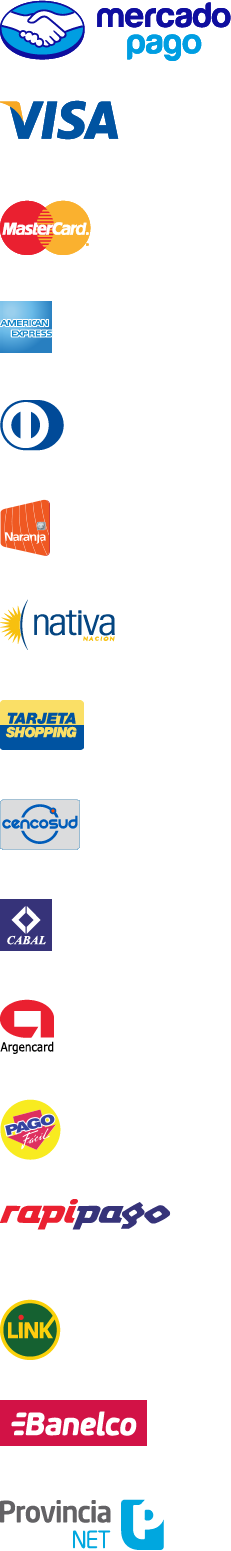
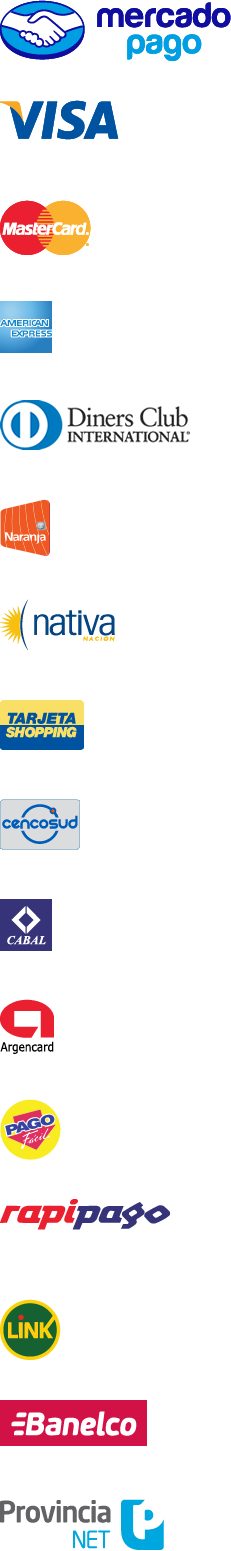
nuevo medio de pago en mx

Changed region(s): [[0.1212, 0.2476, 0.8182, 0.3095], [0.0, 0.2476, 0.0909, 0.3095]]

diff --git a/css/countries/ar/large/payment-methods.css b/css/countries/ar/large/payment-methods.css
@@ -3,7 +3,7 @@
 
 
 .paymentmethod-large {
-    background-image: url('http://static.mlstatic.com/org-img/ui/payment-methods/1.1.0/ar/payment-methods-large.png');
+    background-image: url('http://static.mlstatic.com/org-img/ui/payment-methods/1.2.0/ar/payment-methods-large.png');
     /* background-image: url('https://a248.e.akamai.net/secure.mlstatic.com/org-img/ui/payment-methods/1.1.0/ar/payment-methods-large.png'); */
     height: 26px; /* most common height */
     margin: 5px;
@@ -14,15 +14,15 @@
  */
 
 @media
-only screen and (-webkit-min-device-pixel-ratio: 2)      and (max-width: 568px),
-only screen and (   min--moz-device-pixel-ratio: 2)      and (max-width: 568px),
-only screen and (     -o-min-device-pixel-ratio: 2/1)    and (max-width: 568px),
-only screen and (        min-device-pixel-ratio: 2)      and (max-width: 568px),
-only screen and (                min-resolution: 192dpi) and (max-width: 568px),
-only screen and (                min-resolution: 2dppx)  and (max-width: 568px) {
+only screen and (-webkit-min-device-pixel-ratio: 2),
+only screen and (   min--moz-device-pixel-ratio: 2),
+only screen and (     -o-min-device-pixel-ratio: 2/1),
+only screen and (              min-device-pixel-ratio: 2),
+only screen and (                min-resolution: 192dpi),
+only screen and (                min-resolution: 2dppx) {
    
 .paymentmethod-large {
-        background-image: url('http://static.mlstatic.com/org-img/ui/payment-methods/1.1.0/br/payment-methods-large.png') no-repeat;
+        background-image: url('http://static.mlstatic.com/org-img/ui/payment-methods/1.2.0/ar/payment-methods-large@2x.png') no-repeat;
         background-size: 116px 776px; /* original x1 image size */
     }
 
@@ -53,7 +53,7 @@ only screen and (                min-resolution: 2dppx)  and (max-width: 568px) 
 
 .paymentmethod-diners.paymentmethod-large {
     height: 25px;
-    width: 32px;
+    width: 96px;
 }
 
 .paymentmethod-naranja.paymentmethod-large {

diff --git a/css/countries/mx/large/payment-methods.css b/css/countries/mx/large/payment-methods.css
@@ -2,10 +2,29 @@
 ---------------------------------------------------------------*/
 
 .paymentmethod-large {
-    background-image: url('http://static.mlstatic.com/org-img/ui/payment-methods/1.1.0/mx/payment-methods-large.png');
+    background-image: url('http://static.mlstatic.com/org-img/ui/payment-methods/1.2.0/mx/payment-methods-large.png');
     /* background-image: url('https://a248.e.akamai.net/secure.mlstatic.com/org-img/ui/payment-methods/1.1.0/mx/payment-methods-large.png'); */
     margin: 5px;
 }
+/*
+ * Retina logo for small screens 
+ */
+
+@media
+only screen and (-webkit-min-device-pixel-ratio: 2),
+only screen and (   min--moz-device-pixel-ratio: 2),
+only screen and (     -o-min-device-pixel-ratio: 2/1),
+only screen and (              min-device-pixel-ratio: 2),
+only screen and (                min-resolution: 192dpi),
+only screen and (                min-resolution: 2dppx) {
+   
+.paymentmethod-large {
+        background-image: url('http://static.mlstatic.com/org-img/ui/payment-methods/1.2.0/mx/payment-methods-large@2x.png') no-repeat;
+        background-size: 116px 500px; /* original x1 image size */
+    }
+
+}
+
 
 /* Mexico Large Size
 ---------------------------------------------------------------*/
@@ -50,4 +69,8 @@
 .paymentmethod-oxxo.paymentmethod-large {
     height: 25px;
     width: 52px;
+}
+.paymentmethod-mercadopagocard.paymentmethod-large {
+    height: 26px;
+    width: 108px;
 }

diff --git a/css/countries/co/default/payment-methods.css b/css/countries/co/default/payment-methods.css
@@ -2,10 +2,29 @@
 ---------------------------------------------------------------*/
 
 [class*='paymentmethod'] {
-    background-image: url('http://static.mlstatic.com/org-img/ui/payment-methods/1.1.0/co/payment-methods-default.png');
+    background-image: url('http://static.mlstatic.com/org-img/ui/payment-methods/1.2.0/co/payment-methods-default.png');
     /* background-image: url('https://a248.e.akamai.net/secure.mlstatic.com/org-img/ui/payment-methods/1.1.0/co/payment-methods-default.png'); */
     height: 16px; /* most common height */
 }
+/*
+ * Retina logo for small screens 
+ */
+
+@media
+only screen and (-webkit-min-device-pixel-ratio: 2),
+only screen and (   min--moz-device-pixel-ratio: 2),
+only screen and (    -o-min-device-pixel-ratio: 2/1),
+only screen and (             min-device-pixel-ratio: 2),
+only screen and (                min-resolution: 192dpi),
+only screen and (                  min-resolution: 2dppx) { 
+   
+[class*='paymentmethod'] {
+        background-image: url('http://static.mlstatic.com/org-img/ui/payment-methods/1.2.0/co/payment-methods-default@2x.png') no-repeat;
+        background-size: 72px 310px; /* original x1 image size */
+    }
+
+}
+
 
 /* Colombia Default Size
 ---------------------------------------------------------------*/
@@ -30,7 +49,7 @@
 }
 
 .paymentmethod-diners { 
-    width: 20px;
+    width: 60px;
 }
 
 .paymentmethod-efecty {

diff --git a/css/countries/br/default/payment-methods.css b/css/countries/br/default/payment-methods.css
@@ -2,10 +2,30 @@
 ---------------------------------------------------------------*/
 
 [class*='paymentmethod'] {
-    background-image: url('http://static.mlstatic.com/org-img/ui/payment-methods/1.1.0/br/payment-methods-default.png');
+    background-image: url('http://static.mlstatic.com/org-img/ui/payment-methods/1.2.0/br/payment-methods-default.png');
 /* background-image: url('https://a248.e.akamai.net/secure.mlstatic.com/org-img/ui/payment-methods/1.1.0/br/payment-methods-default.png'); */
     height: 16px; /* most common height */
 }
+
+/*
+ * Retina logo for small screens 
+ */
+
+@media
+only screen and (-webkit-min-device-pixel-ratio: 2),
+only screen and (   min--moz-device-pixel-ratio: 2),
+only screen and (    -o-min-device-pixel-ratio: 2/1),
+only screen and (             min-device-pixel-ratio: 2),
+only screen and (                min-resolution: 192dpi),
+only screen and (                  min-resolution: 2dppx) { 
+   
+[class*='paymentmethod'] {
+        background-image: url('http://static.mlstatic.com/org-img/ui/payment-methods/1.2.0/br/payment-methods-default@2x.png') no-repeat;
+        background-size: 72px 416px; /* original x1 image size */
+    }
+
+}
+
 
 /* Brazil Default Size
 ---------------------------------------------------------------*/
@@ -34,7 +54,7 @@
 }
 
 .paymentmethod-diners {
-    width: 20px;
+    width: 60px;
 }
 
 .paymentmethod-elo {

diff --git a/css/countries/mx/default/payment-methods.css b/css/countries/mx/default/payment-methods.css
@@ -2,9 +2,28 @@
 ---------------------------------------------------------------*/
 
 [class*='paymentmethod'] {
-    background-image: url('http://static.mlstatic.com/org-img/ui/payment-methods/1.1.0/mx/payment-methods-default.png');
+    background-image: url('http://static.mlstatic.com/org-img/ui/payment-methods/1.2.0/mx/payment-methods-default.png');
     /* background-image: url('https://a248.e.akamai.net/secure.mlstatic.com/org-img/ui/payment-methods/1.1.0/mx/payment-methods-default.png'); */
     height: 16px; /* most common height */
+}
+
+/*
+ * Retina logo for small screens 
+ */
+
+@media
+only screen and (-webkit-min-device-pixel-ratio: 2),
+only screen and (   min--moz-device-pixel-ratio: 2),
+only screen and (    -o-min-device-pixel-ratio: 2/1),
+only screen and (             min-device-pixel-ratio: 2),
+only screen and (                min-resolution: 192dpi),
+only screen and (                  min-resolution: 2dppx) { 
+   
+[class*='paymentmethod'] {
+        background-image: url('http://static.mlstatic.com/org-img/ui/payment-methods/1.2.0/mx/payment-methods-default@2x.png') no-repeat;
+        background-size: 78px 500px; /* original x1 image size */
+    }
+
 }
 
 /* Mexico Default Size
@@ -49,4 +68,8 @@
 .paymentmethod-oxxo {
     height: 15px;
     width: 33px;
+}
+.paymentmethod-mercadopagocard {
+    height: 17px;
+    width: 78px;
 }

diff --git a/css/countries/br/large/payment-methods.css b/css/countries/br/large/payment-methods.css
@@ -2,10 +2,30 @@
 ---------------------------------------------------------------*/
 
 .paymentmethod-large {
-    background-image: url('http://static.mlstatic.com/org-img/ui/payment-methods/1.1.0/br/payment-methods-large.png');
+    background-image: url('http://static.mlstatic.com/org-img/ui/payment-methods/1.2.0/br/payment-methods-large.png');
     /* background-image: url('https://a248.e.akamai.net/secure.mlstatic.com/org-img/ui/payment-methods/1.1.0/br/payment-methods-large.png'); */
     height: 25px; /* most common height */
     margin: 5px;
+}
+
+
+/*
+ * Retina logo for small screens 
+ */
+
+@media
+only screen and (-webkit-min-device-pixel-ratio: 2),
+only screen and (   min--moz-device-pixel-ratio: 2),
+only screen and (     -o-min-device-pixel-ratio: 2/1),
+only screen and (              min-device-pixel-ratio: 2),
+only screen and (                min-resolution: 192dpi),
+only screen and (                min-resolution: 2dppx) {
+   
+.paymentmethod-large {
+        background-image: url('http://static.mlstatic.com/org-img/ui/payment-methods/1.2.0/br/payment-methods-large@2x.png') no-repeat;
+        background-size: 116px 425px; /* original x1 image size */
+    }
+
 }
 
 
@@ -37,7 +57,7 @@
 }
 
 .paymentmethod-diners.paymentmethod-large {
-    width: 32px;
+    width: 96px;
 }
 
 .paymentmethod-elo.paymentmethod-large {

diff --git a/css/countries/co/large/payment-methods.css b/css/countries/co/large/payment-methods.css
@@ -2,9 +2,28 @@
 ---------------------------------------------------------------*/
 
 .paymentmethod-large {
-    background-image: url('http://static.mlstatic.com/org-img/ui/payment-methods/1.1.0/co/payment-methods-large.png');
+    background-image: url('http://static.mlstatic.com/org-img/ui/payment-methods/1.2.0/co/payment-methods-large.png');
     /* background-image: url('https://a248.e.akamai.net/secure.mlstatic.com/org-img/ui/payment-methods/1.1.0/co/payment-methods-large.png'); */
     margin: 5px;
+}
+
+/*
+ * Retina logo for small screens 
+ */
+
+@media
+only screen and (-webkit-min-device-pixel-ratio: 2),
+only screen and (   min--moz-device-pixel-ratio: 2),
+only screen and (     -o-min-device-pixel-ratio: 2/1),
+only screen and (              min-device-pixel-ratio: 2),
+only screen and (                min-resolution: 192dpi),
+only screen and (                min-resolution: 2dppx) {
+   
+.paymentmethod-large {
+        background-image: url('http://static.mlstatic.com/org-img/ui/payment-methods/1.2.0/co/payment-methods-large@2x.png') no-repeat;
+        background-size: 116px 776px; /* original x1 image size */
+    }
+
 }
 
 
@@ -33,7 +52,7 @@
 
 .paymentmethod-diners.paymentmethod-large {
     height: 25px;
-    width: 32px;
+    width: 96px;
 }
 
 .paymentmethod-efecty.paymentmethod-large {

diff --git a/css/countries/ve/default/payment-methods.css b/css/countries/ve/default/payment-methods.css
@@ -2,10 +2,29 @@
 ---------------------------------------------------------------*/
 
 [class*='paymentmethod'] {
-    background-image: url('http://static.mlstatic.com/org-img/ui/payment-methods/1.1.0/ve/payment-methods-default.png');
+    background-image: url('http://static.mlstatic.com/org-img/ui/payment-methods/1.2.0/ve/payment-methods-default.png');
     /* background-image: url('https://a248.e.akamai.net/secure.mlstatic.com/org-img/ui/payment-methods/1.1.0/ve/payment-methods-default.png'); */
     height: 16px; /* most common height */
 }
+/*
+ * Retina logo for small screens 
+ */
+
+@media
+only screen and (-webkit-min-device-pixel-ratio: 2),
+only screen and (   min--moz-device-pixel-ratio: 2),
+only screen and (    -o-min-device-pixel-ratio: 2/1),
+only screen and (             min-device-pixel-ratio: 2),
+only screen and (                min-resolution: 192dpi),
+only screen and (                  min-resolution: 2dppx) { 
+   
+[class*='paymentmethod'] {
+        background-image: url('http://static.mlstatic.com/org-img/ui/payment-methods/1.2.0/ve/payment-methods-default@2x.png') no-repeat;
+        background-size: 72px 266px; /* original x1 image size */
+    }
+
+}
+
 
 /* Venezuela Default Size
 ---------------------------------------------------------------*/

diff --git a/css/countries/ar/default/payment-methods.css b/css/countries/ar/default/payment-methods.css
@@ -3,7 +3,7 @@
 
 
 [class*='paymentmethod'] {
-    background-image: url('http://static.mlstatic.com/org-img/ui/payment-methods/1.1.0/ar/payment-methods-default.png');
+    background-image: url('http://static.mlstatic.com/org-img/ui/payment-methods/1.2.0/ar/payment-methods-default.png');
     /* background-image: url('https://a248.e.akamai.net/secure.mlstatic.com/org-img/ui/payment-methods/1.1.0/ar/payment-methods-default.png'); */
     height: 16px; /* most common height */
 }
@@ -21,7 +21,7 @@ only screen and (                min-resolution: 192dpi),
 only screen and (                  min-resolution: 2dppx) { 
    
 [class*='paymentmethod'] {
-        background-image: url('http://static.mlstatic.com/org-img/ui/payment-methods/1.1.0/ar/payment-methods-default@2x.png') no-repeat;
+        background-image: url('http://static.mlstatic.com/org-img/ui/payment-methods/1.2.0/ar/payment-methods-default@2x.png') no-repeat;
         background-size: 72px 800px; /* original x1 image size */
     }
 
@@ -52,7 +52,7 @@ only screen and (                  min-resolution: 2dppx) {
 
 .paymentmethod-diners { 
     height: 16px;
-    width: 20px;
+    width: 60px;
 }
 
 .paymentmethod-naranja { 

diff --git a/css/countries/ve/large/payment-methods.css b/css/countries/ve/large/payment-methods.css
@@ -7,6 +7,25 @@
     height: 26px;
     margin: 5px;
 }
+/*
+ * Retina logo for small screens 
+ */
+
+@media
+only screen and (-webkit-min-device-pixel-ratio: 2),
+only screen and (   min--moz-device-pixel-ratio: 2),
+only screen and (     -o-min-device-pixel-ratio: 2/1),
+only screen and (              min-device-pixel-ratio: 2),
+only screen and (                min-resolution: 192dpi),
+only screen and (                min-resolution: 2dppx) {
+   
+.paymentmethod-large {
+        background-image: url('http://static.mlstatic.com/org-img/ui/payment-methods/1.2.0/ve/payment-methods-large@2x.png') no-repeat;
+        background-size: 116px 276px; /* original x1 image size */
+    }
+
+}
+
 
 /* Venezuela Large Size
 ---------------------------------------------------------------*/

diff --git a/index.html b/index.html
@@ -133,6 +133,7 @@
 				<li class="paymentmethod-banamex">Banamex</li>
 				<li class="paymentmethod-serfin">Santander Serfin</li>
 				<li class="paymentmethod-oxxo">Oxxo</li>
+				<li class="paymentmethod-mercadopagocard">Tarjeta MercadoPago</li>
 			</ul>
 		</div>
 
@@ -313,6 +314,7 @@
 				<li class="paymentmethod-banamex paymentmethod-large">Banamex</li>
 				<li class="paymentmethod-serfin paymentmethod-large">Santander Serfin</li>
 				<li class="paymentmethod-oxxo paymentmethod-large">Oxxo</li>
+				<li class="paymentmethod-mercadopagocard paymentmethod-large">Tarjeta MercadoPago</li>
 			</ul>
 		</div>
 

diff --git a/css/countries/mx/payment-methods.css b/css/countries/mx/payment-methods.css
@@ -15,3 +15,6 @@
 .paymentmethod-oxxo { 
 	background-position: 0 -400px; 
 }
+.paymentmethod-mercadopagocard { 
+	background-position: 0 -450px; 
+}
